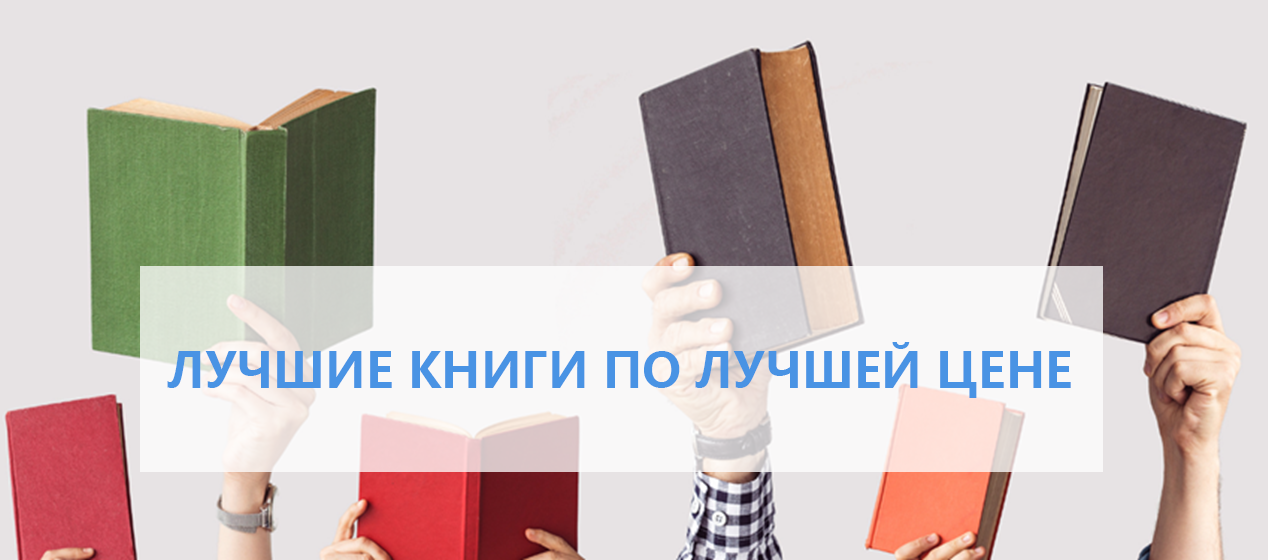
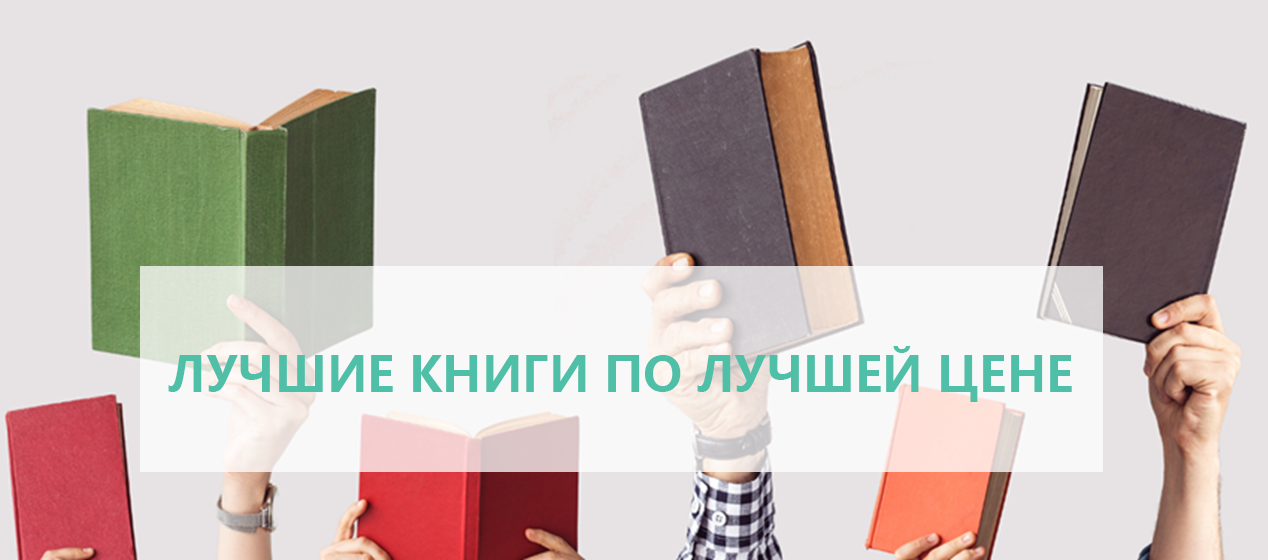
update: blog posters in index

Changed region(s): [[0.123, 0.6071, 0.8612, 0.7286]]

diff --git a/templates/index.html b/templates/index.html
@@ -135,22 +135,17 @@
             <div class="container" data-animate="fadeInUpBig">
                 <div class="col-md-12">
                     <div class="box slideshow">
-                        <h3>Get Inspired</h3>
-                        <p class="lead">Get the inspiration from our world class designers</p>
+                        <h3>ПОЛУЧАЙТЕ ВДОХНОВЕНИЕ</h3>
+                        <br>
                         <div id="get-inspired" class="owl-carousel owl-theme">
                             <div class="item">
                                 <a href="#">
-                                    <img src="{{ url_for('static', filename='img/getinspired1.jpg') }}" alt="Get inspired" class="img-responsive">
+                                    <img src="{{ url_for('static', filename='img/getinspired1.png') }}" alt="Get inspired" class="img-responsive">
                                 </a>
                             </div>
                             <div class="item">
                                 <a href="#">
-                                    <img src="{{ url_for('static', filename='img/getinspired2.jpg') }}" alt="Get inspired" class="img-responsive">
-                                </a>
-                            </div>
-                            <div class="item">
-                                <a href="#">
-                                    <img src="{{ url_for('static', filename='img/getinspired3.jpg') }}" alt="Get inspired" class="img-responsive">
+                                    <img src="{{ url_for('static', filename='img/getinspired2.png') }}" alt="Get inspired" class="img-responsive">
                                 </a>
                             </div>
                         </div>
@@ -165,9 +160,9 @@
             <div class="box text-center" data-animate="fadeInUp">
                 <div class="container">
                     <div class="col-md-12">
-                        <h3 class="text-uppercase">From our blog</h3>
+                        <h3 class="text-uppercase">ИЗ НАШЕГО БЛОГА</h3>
 
-                        <p class="lead">What's new in the world of fashion? <a href="blog.html">Check our blog!</a>
+                        <p class="lead">Что нового в книжном мире? <a href="{{ url_for('blog')}}"> Почитайте наш блог!</a>
                         </p>
                     </div>
                 </div>
@@ -178,32 +173,20 @@
                 <div class="col-md-12" data-animate="fadeInUp">
 
                     <div id="blog-homepage" class="row">
+                        {% for post in posts %}
                         <div class="col-sm-6">
                             <div class="post">
-                                <h4><a href="post.html">Fashion now</a></h4>
-                                <p class="author-category">By <a href="#">John Slim</a> in <a href="">Fashion and style</a>
+                                <h4><a href="{{ url_for('post') }}">{{ post[0] }}</a></h4>
+                                <p class="author-category">Автор: {{ post[1] }}</a>
                                 </p>
                                 <hr>
-                                <p class="intro">Pellentesque habitant morbi tristique senectus et netus et malesuada fames ac turpis egestas. Vestibulum tortor quam, feugiat vitae, ultricies eget, tempor sit amet, ante. Donec eu libero sit amet quam egestas semper. Aenean
-                                    ultricies mi vitae est. Mauris placerat eleifend leo.</p>
-                                <p class="read-more"><a href="post.html" class="btn btn-primary">Continue reading</a>
+                                <p class="intro">{{ post[2] }}</p>
+                                <p class="read-more"><a href="{{ url_for('post') }}" class="btn btn-primary">Читать полностью</a>
                                 </p>
                             </div>
                         </div>
 
-                        <div class="col-sm-6">
-                            <div class="post">
-                                <h4><a href="post.html">Who is who - example blog post</a></h4>
-                                <p class="author-category">By <a href="#">John Slim</a> in <a href="">About Minimal</a>
-                                </p>
-                                <hr>
-                                <p class="intro">Pellentesque habitant morbi tristique senectus et netus et malesuada fames ac turpis egestas. Vestibulum tortor quam, feugiat vitae, ultricies eget, tempor sit amet, ante. Donec eu libero sit amet quam egestas semper. Aenean
-                                    ultricies mi vitae est. Mauris placerat eleifend leo.</p>
-                                <p class="read-more"><a href="post.html" class="btn btn-primary">Continue reading</a>
-                                </p>
-                            </div>
-
-                        </div>
+                        {% endfor %}
 
                     </div>
                     <!-- /#blog-homepage -->

diff --git a/templates/blog.html b/templates/blog.html
@@ -25,9 +25,9 @@
 
                     <ul class="breadcrumb">
 
-                        <li><a href="#">Home</a>
+                        <li><a href="#">Главная</a>
                         </li>
-                        <li>Blog listing</li>
+                        <li>Блог</li>
                     </ul>
 
 
@@ -92,46 +92,6 @@
                 <!-- /.col-md-9 -->
 
                 <!-- *** LEFT COLUMN END *** -->
-
-
-                <div class="col-md-3">
-                    <!-- *** BLOG MENU ***
- _________________________________________________________ -->
-                    <div class="panel panel-default sidebar-menu">
-
-                        <div class="panel-heading">
-                            <h3 class="panel-title">Blog</h3>
-                        </div>
-
-                        <div class="panel-body">
-
-                            <ul class="nav nav-pills nav-stacked">
-                                <li>
-                                    <a href="blog.html">About us</a>
-                                </li>
-                                <li class="active">
-                                    <a href="blog.html">Fashion</a>
-                                </li>
-                                <li>
-                                    <a href="blog.html">News and gossip</a>
-                                </li>
-                                <li>
-                                    <a href="blog.html">Design</a>
-                                </li>
-                            </ul>
-                        </div>
-
-                    </div>
-                    <!-- /.col-md-3 -->
-
-                    <!-- *** BLOG MENU END *** -->
-
-                    <div class="banner">
-                        <a href="#">
-                            <img src="{{ url_for('static', filename='img/banner.jpg') }}" alt="sales 2014" class="img-responsive">
-                        </a>
-                    </div>
-                </div>
 
 
             </div>

diff --git a/templates/base.html b/templates/base.html
@@ -27,7 +27,7 @@
     <link href="{{ url_for('static', filename='css/owl.theme.css') }}" rel="stylesheet">
 
     <!-- theme stylesheet -->
-    <link href="{{ url_for('static', filename='css/style.blue.css') }}" rel="stylesheet" id="theme-stylesheet">
+    <link href="{{ url_for('static', filename='css/style.default.css') }}" rel="stylesheet" id="theme-stylesheet">
 
     <!-- your stylesheet with modifications -->
     <link href="{{ url_for('static', filename='css/custom.css') }}" rel="stylesheet">

diff --git a/static/css/style.blue.css b/static/css/style.blue.css
@@ -551,7 +551,6 @@ h1 {
     max-width: 100%;
   }
 }
-.product .img-responsive {height: 300px; max-width: fit-content;}
 #content .product .text {
   padding: 10px 10px 0;
 }
@@ -1686,7 +1685,7 @@ address {
   font-size: 150%;
 }
 
-
+.product .img-responsive {height: 300px; max-width: fit-content;}
 .invalid {background-color: #ff9898; }
 .invalid-feedback {color: #cc0000;}
 .flash.success {padding: 10px; border: 1px solid #21db56; background: #aeffc5;}

diff --git a/static/css/style.default.css b/static/css/style.default.css
@@ -1669,3 +1669,9 @@ address {
   color: #fff;
   text-decoration: none;
 }
+
+.product .img-responsive {height: 300px; max-width: fit-content;}
+.invalid {background-color: #ff9898; }
+.invalid-feedback {color: #cc0000;}
+.flash.success {padding: 10px; border: 1px solid #21db56; background: #aeffc5;}
+.flash.error {padding: 10px; border: 1px solid #cc0000; background: #ff9898;}

diff --git a/main.py b/main.py
@@ -2,7 +2,7 @@ from base64 import b64encode
 import datetime
 from functools import reduce
 from flask import Flask
-from flask import render_template, url_for, request, flash, session, redirect, abort, g, sessions
+from flask import render_template, url_for, request, flash, session, redirect, abort, g
 from flask_paginate import Pagination, get_page_parameter
 import sqlite3 as sq
 import os
@@ -68,7 +68,8 @@ def index():
     new_books = list(map(lambda i: list(i), new_books))
     for image in new_books:
         image[3] = b64encode(image[3]).decode("utf-8")
-    return render_template('index.html', nav_bar=nav_bar, new_books=new_books)
+    posts = dbase.get_posts_index()
+    return render_template('index.html', nav_bar=nav_bar, new_books=new_books, posts=posts)
 
 
 @app.route('/detail/<int:book_id>', methods=['GET', 'POST'])

diff --git a/bookstore_db.py b/bookstore_db.py
@@ -209,8 +209,18 @@ customer_order TEXT NOT NULL)''')
         except sq.Error as e:
             print('Ошибка записи данных в БД' + str(e))
 
+    def get_posts_index(self):
+        # with sq.connect(self.db) as con:
+        #     self.cursor = con.cursor()
+        try:
+            self.cursor.execute('SELECT title, author, short_post FROM blog LIMIT 2')
+            res = self.cursor.fetchall()
+            return res
+        except sq.Error as e:
+            print('Ошибка получения данных из blog' + str(e))
+
 
 
 # db = BookStoreDB('bookstore.db')
-# user = db.get_all_books_in_cart(1)
+# user = db.get_posts_index()
 # print(user)
